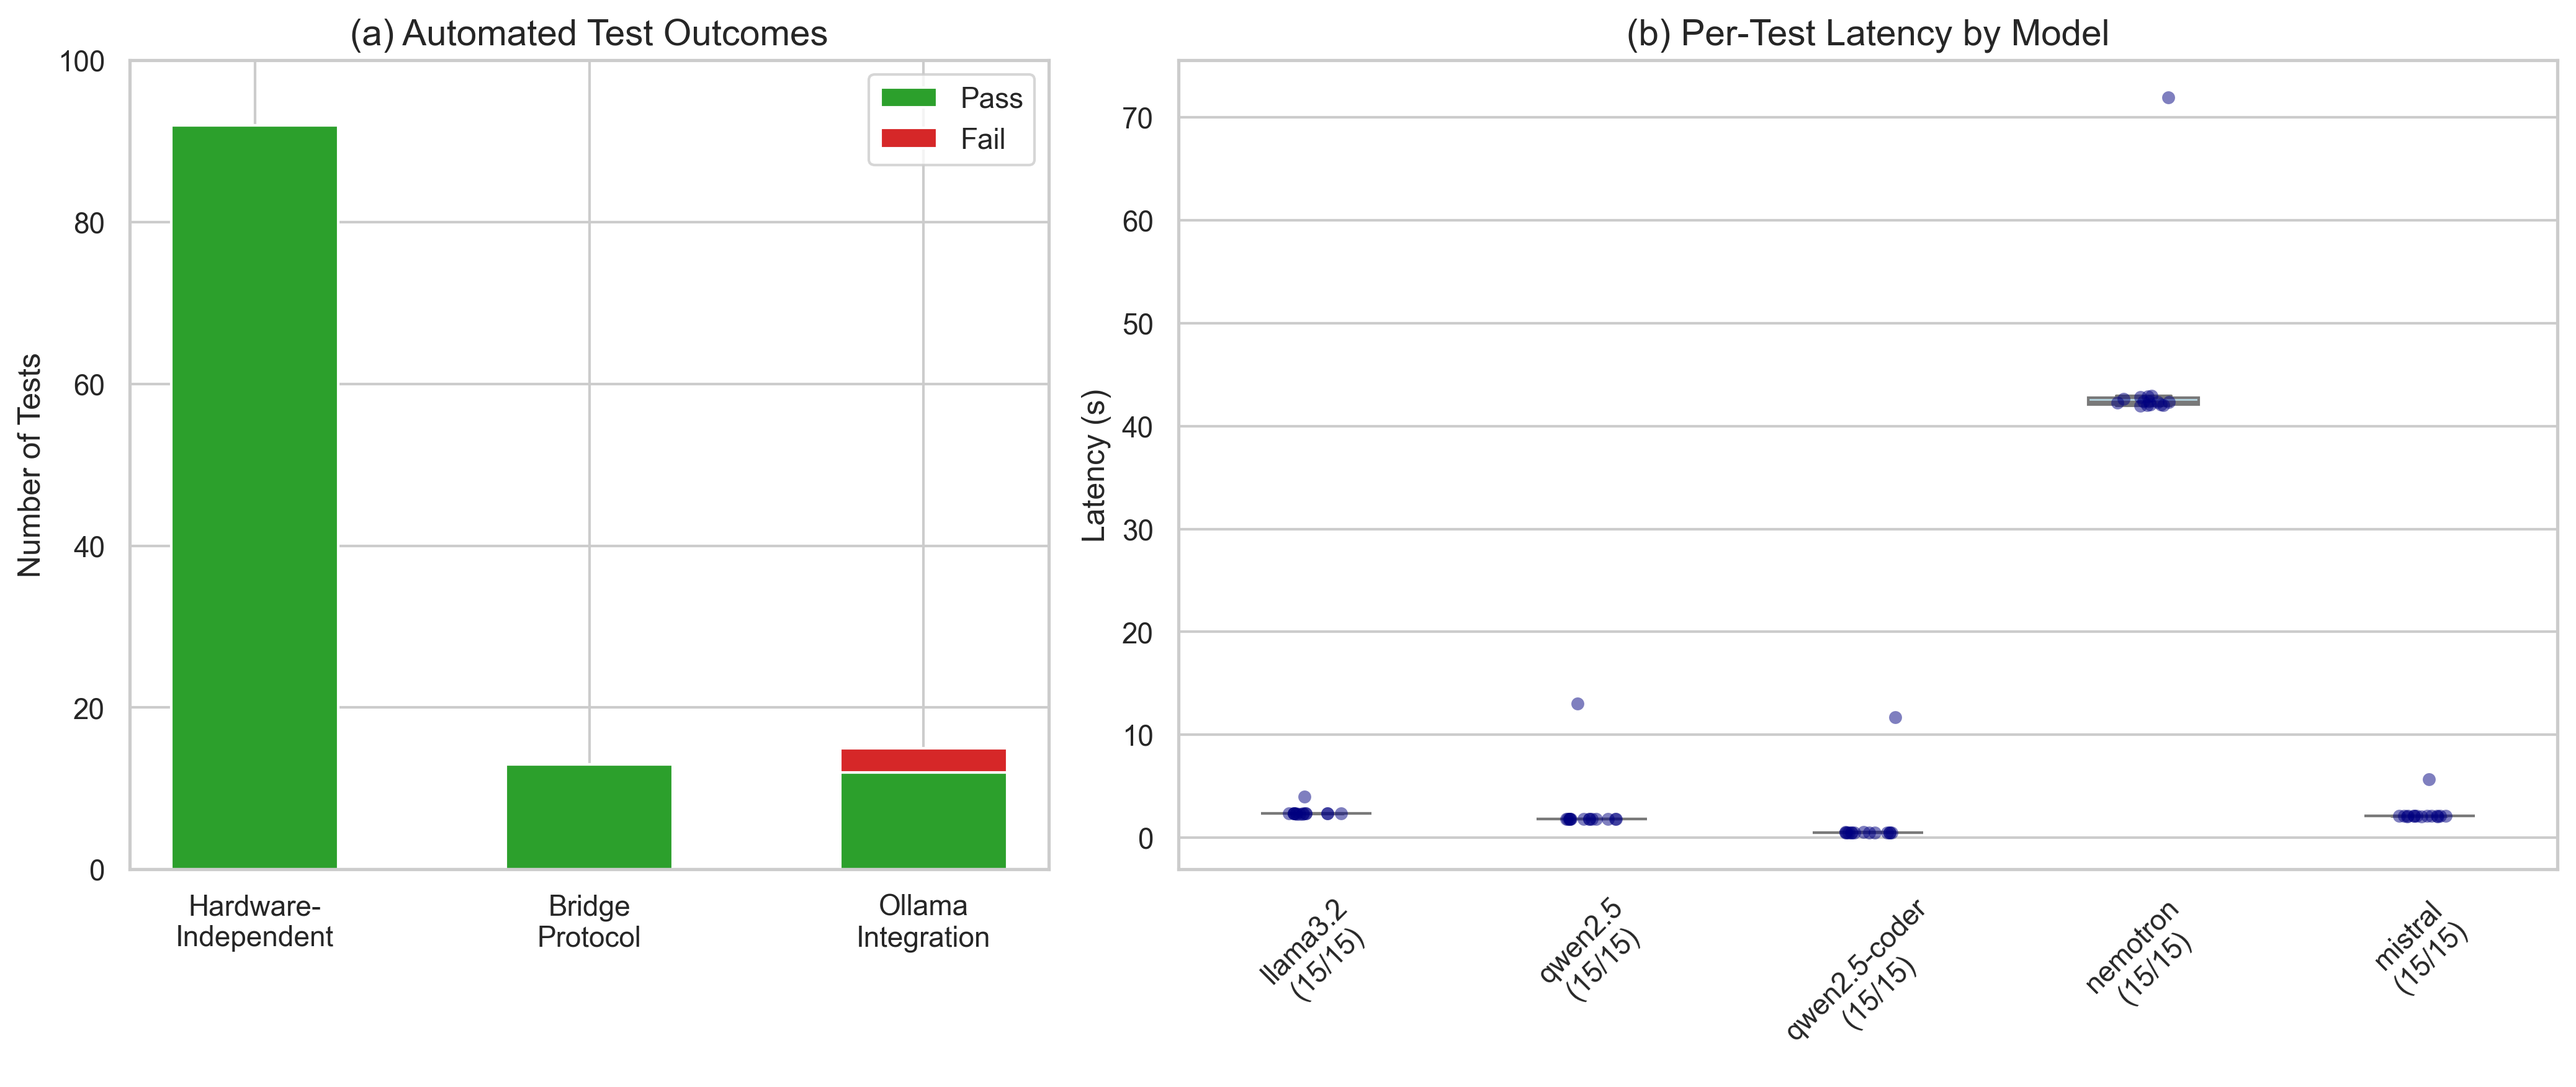
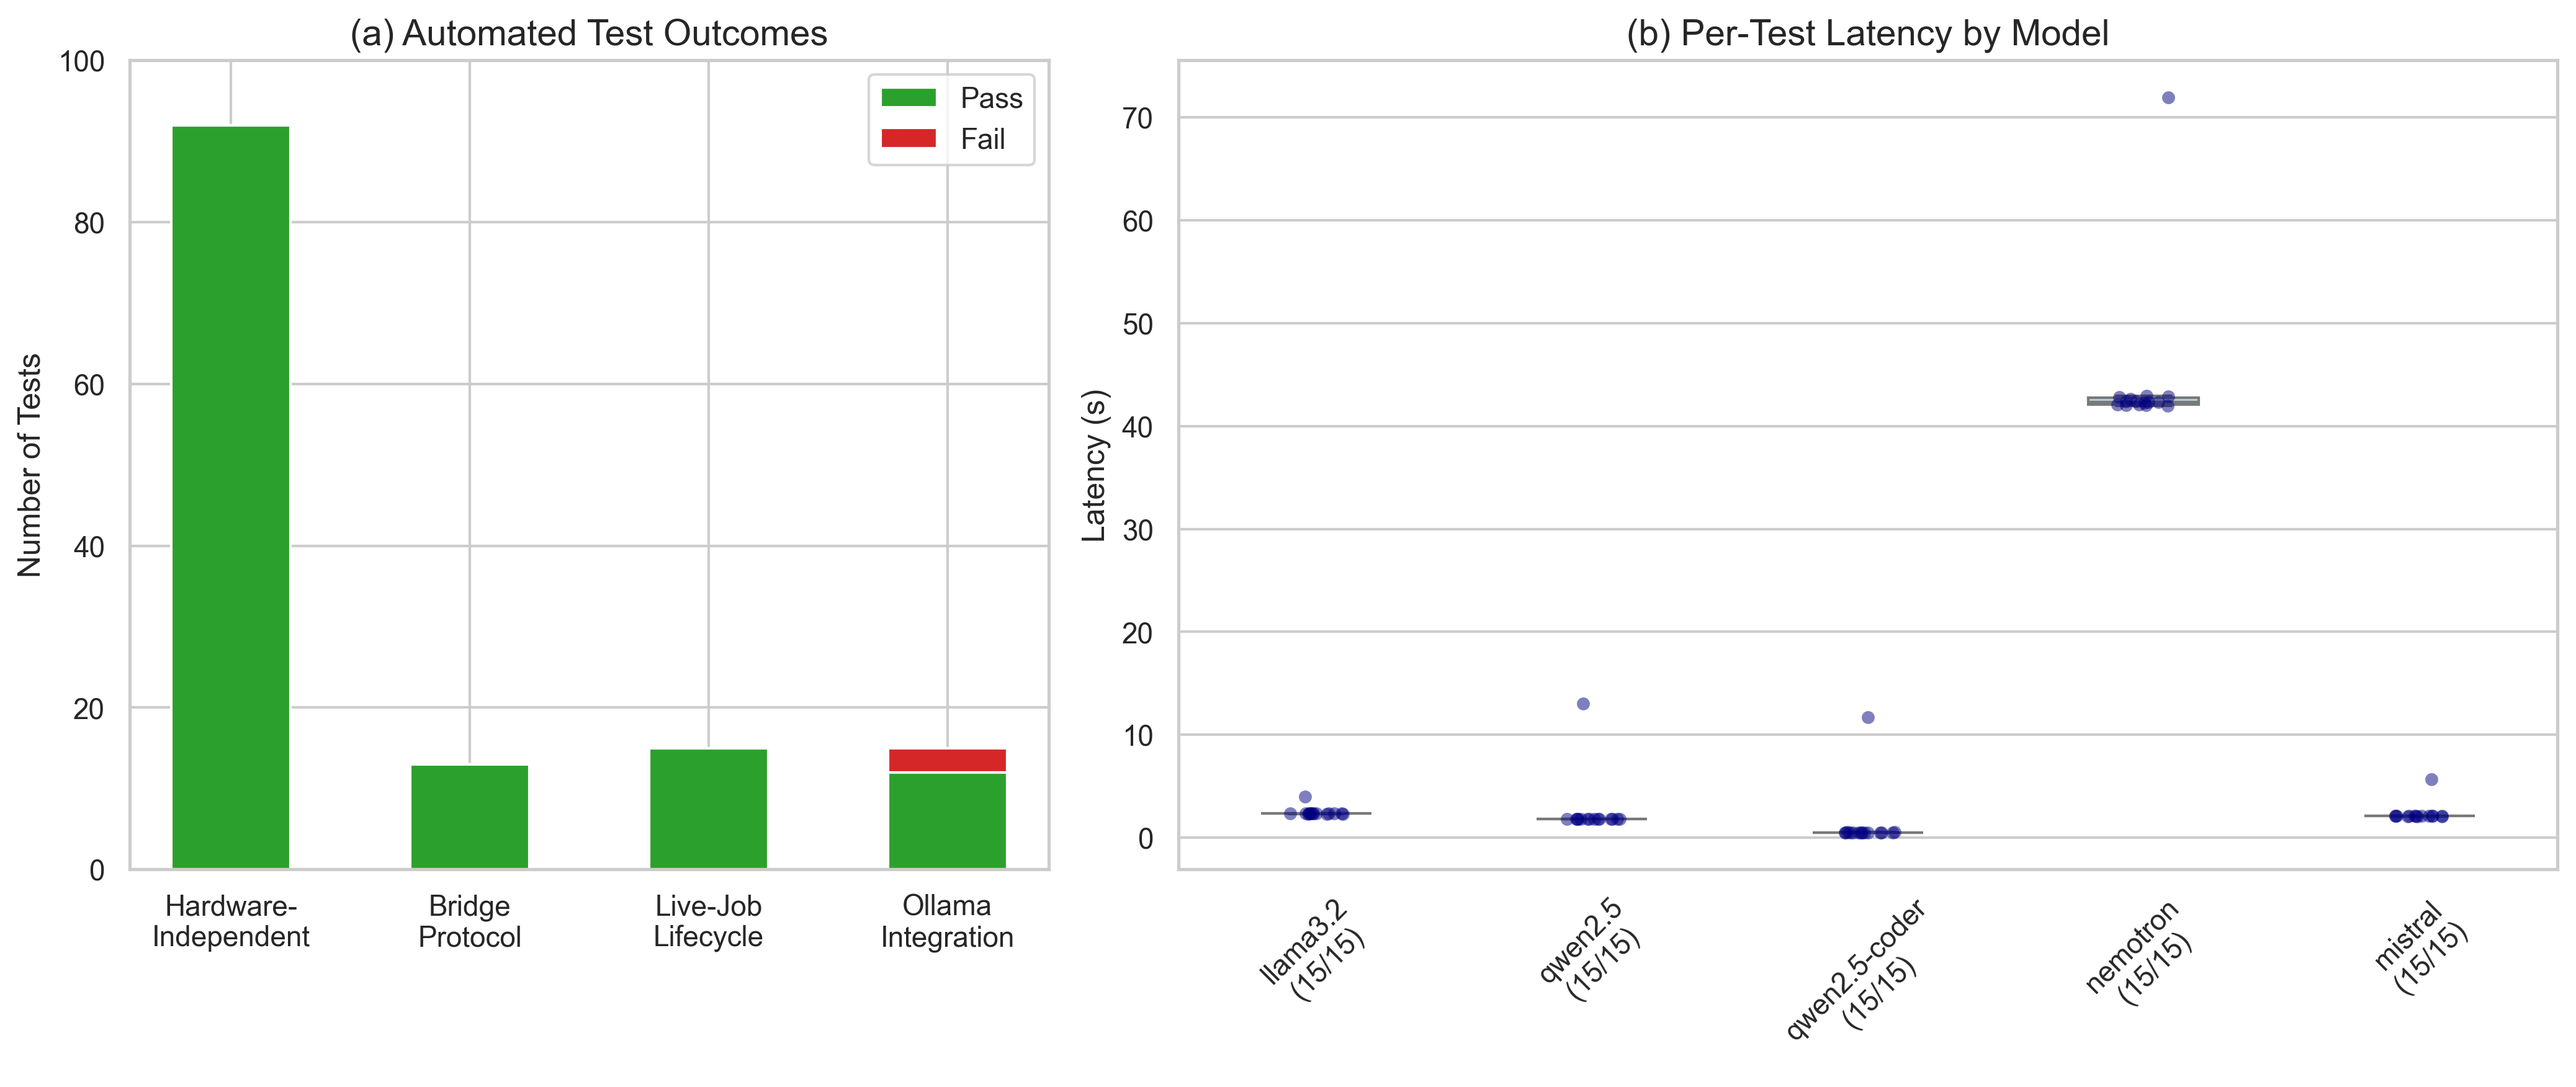
chore: add Live-Job Lifecycle bar to Figure 7a to match Table 2

diff --git a/scripts/generate_benchmark_plot.py b/scripts/generate_benchmark_plot.py
@@ -19,9 +19,9 @@ def generate_plot():
     # ==========================================
 
     # Example data mirroring the attached image
-    categories = ["Hardware-\nIndependent", "Bridge\nProtocol", "Ollama\nIntegration"]
-    passes = [92, 13, 12]  # Approximate values
-    fails = [0, 0, 3]  # Approximate values
+    categories = ["Hardware-\nIndependent", "Bridge\nProtocol", "Live-Job\nLifecycle", "Ollama\nIntegration"]
+    passes = [92, 13, 15, 12]  # Approximate values
+    fails = [0, 0, 0, 3]  # Approximate values
 
     width = 0.5
 
